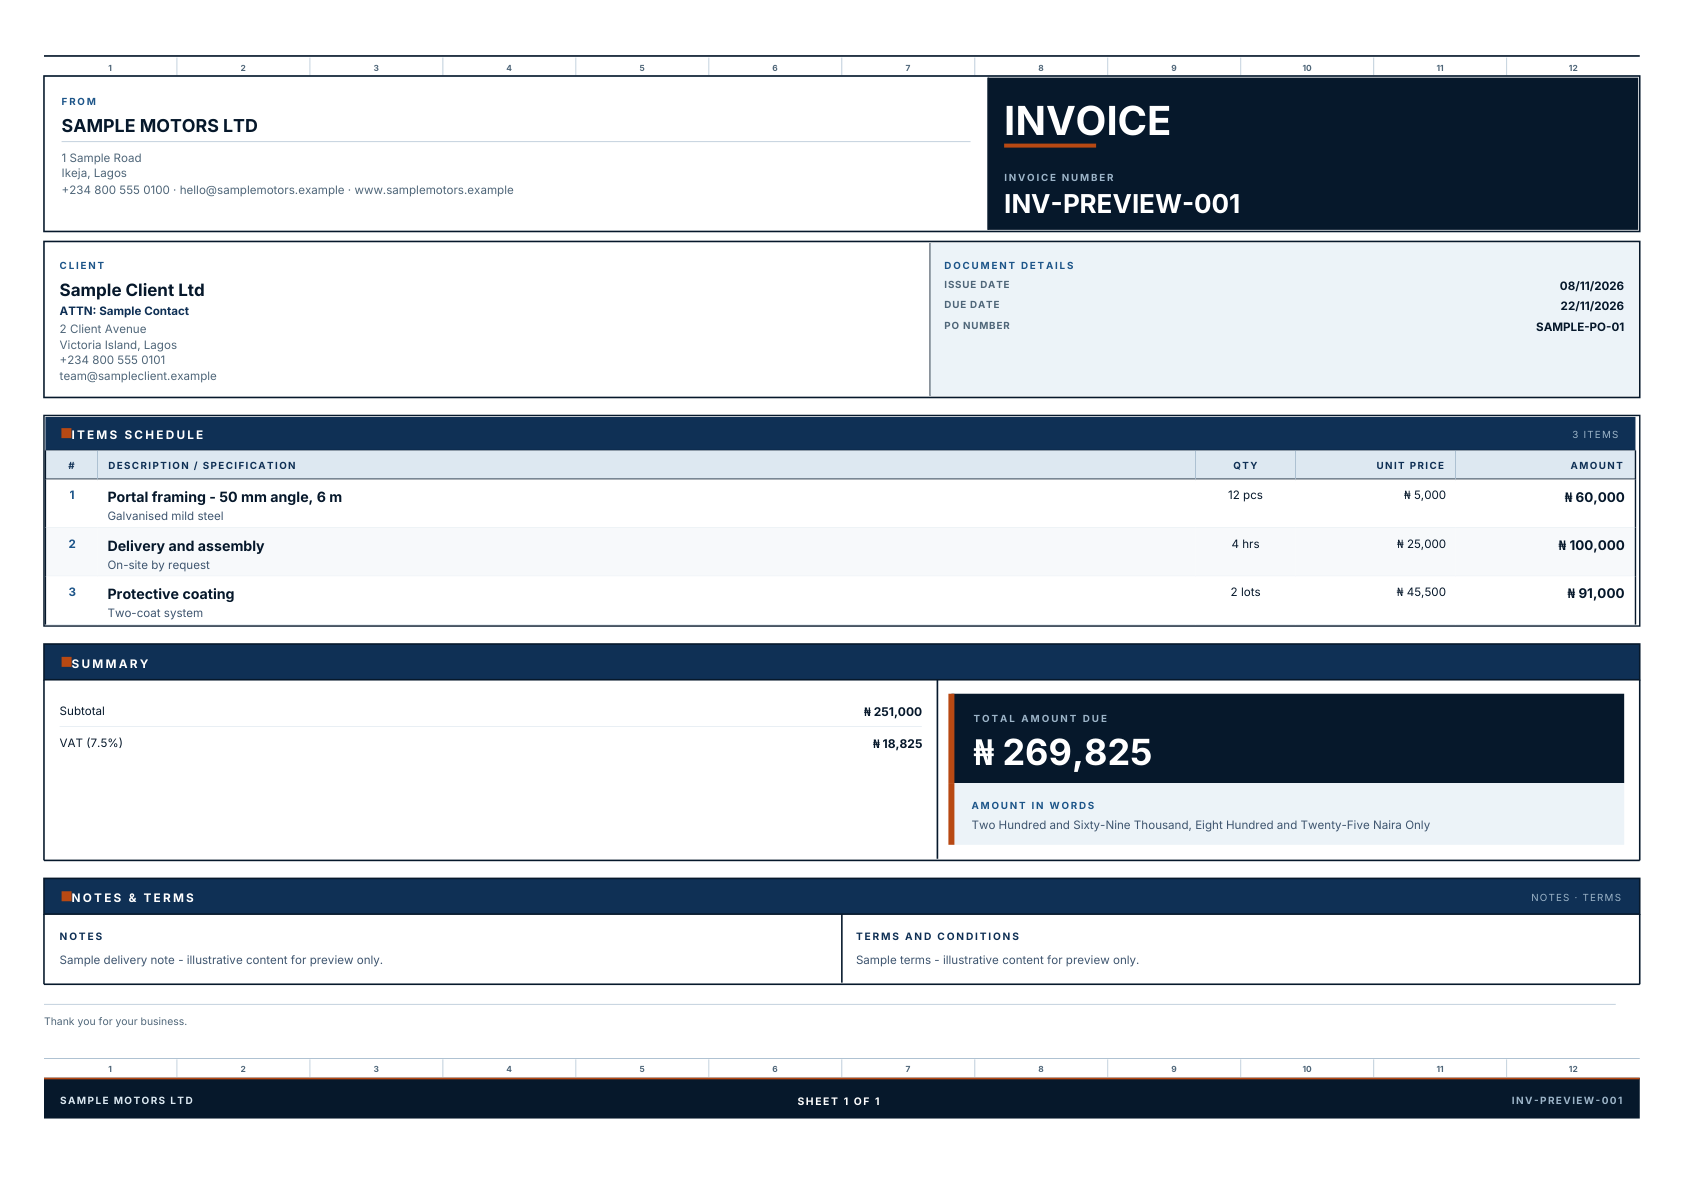
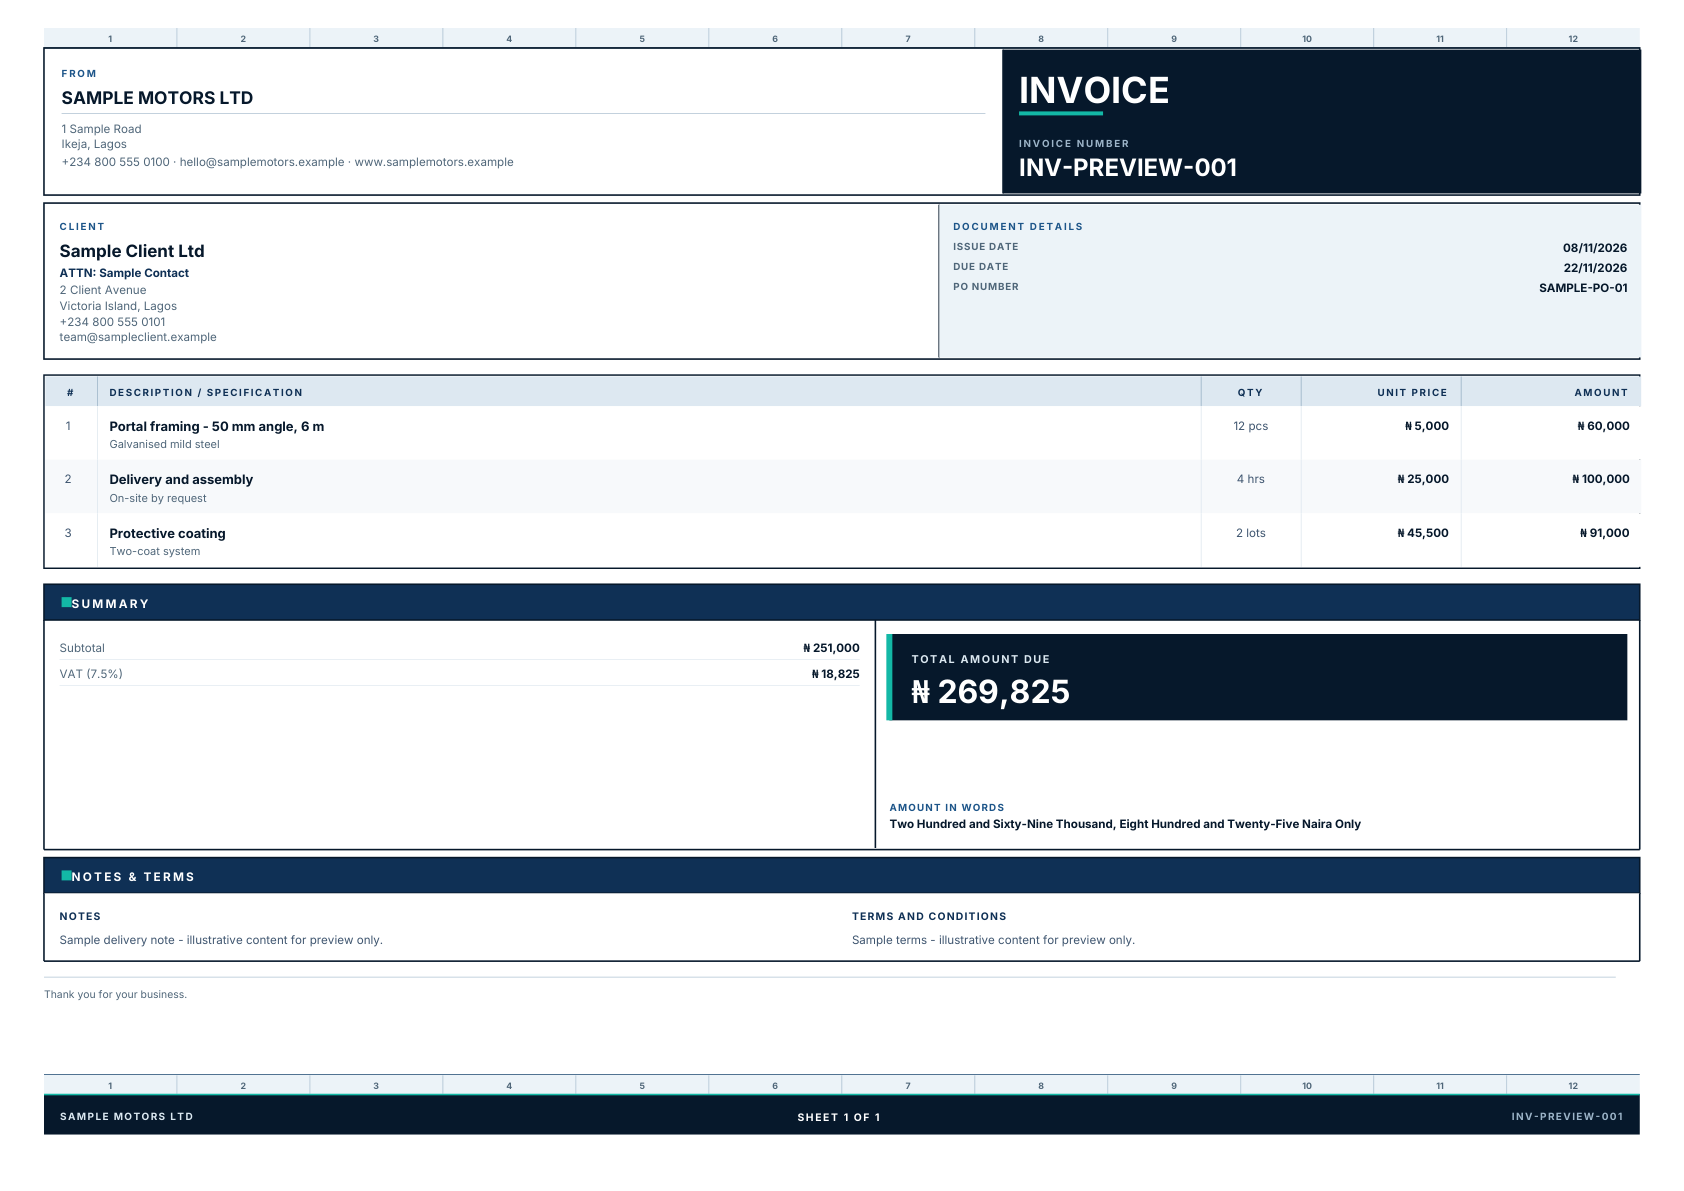
📝 docs(document-view): commercial miniature audit implementation log

Changed region(s): [[0.0, 0.0311, 0.9881, 0.8699], [0.0309, 0.9009, 0.9881, 0.9631]]

diff --git a/docs/reports/Commercial_Template_Miniature_Source_And_Rendering_Audit.md b/docs/reports/Commercial_Template_Miniature_Source_And_Rendering_Audit.md
@@ -286,10 +286,56 @@ Zero application source files, HTML templates, CSS files, image assets, `package
 
 ---
 
-## 12. Implementation handoff (do not implement without approval)
+## 12. Implementation report (approved implementation, 2026-11-08)
 
-1. Create the generation script (Bun/Node) from the `scratch/verify-heritage-visual.ts` sample-model pattern + `scratch/render-heritage-pixmaps.ts` raster loop, parameterised over the 8 IDs.
-2. Commit WebP (PNG fallback) previews; wire `CommercialTemplatePicker` `customPreview` slots to `<img>` with `object-fit: contain`.
-3. Keep `CommercialTemplateMiniature.tsx` as fallback; add CI golden-diff check per §9.
-4. Await explicit approval. This audit intentionally stops here.
+### Authoritative inventory (resolved count: 8)
+Verified against `INVOICE_PDF_TEMPLATE_IDS` in `src/domain/invoice/types.ts` (9 entries; `industry-forme` is an alias normalizing to `industry`), `resolveCommercialPdfRoute` in `src/components/pdf/index.ts` (8 `*-forme` routes), and `CommercialTemplatePicker.tsx` (8 options). Quotation reuses the same IDs via `normalizeInvoicePdfTemplateId` in `src/domain/quotation/pdfDownloadHandler.ts`. **Heritage House is genuinely selectable and backed by `HeritageHouseFormeDocument.tsx` — included.** Exact IDs: `industrial`, `industry`, `minimal`, `landscape`, `evergreen`, `architectural`, `executive`, `heritage`.
 
+### Renderer → image mapping
+| ID | Forme renderer | Asset (committed PNG) |
+|---|---|---|
+| industrial | `src/components/pdf/forme/IndustrialFormeDocument.tsx` | `src/assets/template-previews/industrial.png` |
+| industry | `src/components/pdf/forme/IndustryFormeDocument.tsx` | `src/assets/template-previews/industry.png` |
+| minimal | `src/components/pdf/forme/MinimalFormeDocument.tsx` | `src/assets/template-previews/minimal.png` |
+| landscape | `src/components/pdf/forme/LandscapeFormeDocument.tsx` | `src/assets/template-previews/landscape.png` |
+| evergreen | `src/components/pdf/forme/EvergreenFormeDocument.tsx` | `src/assets/template-previews/evergreen.png` |
+| architectural | `src/components/pdf/forme/ArchitecturalFormeDocument.tsx` | `src/assets/template-previews/architectural.png` |
+| executive | `src/components/pdf/forme/ExecutiveFormeDocument.tsx` | `src/assets/template-previews/executive.png` |
+| heritage | `src/components/pdf/forme/HeritageHouseFormeDocument.tsx` | `src/assets/template-previews/heritage.png` |
+
+Formats: PNG (106–157 KB, 1191×1684 portrait / 1684×1191 landscape at scale 2 ≈ 144 dpi). PNG chosen over WebP — guaranteed by `pix.asPNG()`, no new dependency. First page only (all 8 PDFs render single-page with the fixture).
+
+### Fixture
+`scripts/generate-commercial-template-previews.ts` → `buildSampleInvoice()` — fictional `Sample Motors Ltd` → `Sample Client Ltd`, `INV-PREVIEW-001`, 3 items (12×₦5,000 + 4×₦25,000 + 2×₦45,500 = ₦251,000; VAT 7.5% ₦18,825; total ₦269,825 + amount-in-words), notes/terms labelled "illustrative content for preview only", footer `Sample Motors Ltd`. No TIN, bank details, signatures, logos, or real customer data. Layout hint per template (`portrait` except `landscape`). Fixture is generation-time only; never enters production document data.
+
+### Generation
+`bun scripts/generate-commercial-template-previews.ts` → for each ID: `adaptCommercialDocumentData(model)` → `renderPdfcnToBytes(React.createElement(Component, { data }))` → `mupdf.Document.openDocument(bytes)` → `page.toPixmap(scale 2, DeviceRGB)` → `pix.asPNG()` → `src/assets/template-previews/{id}.png`. Fonts pre-registered (`Inter`, `Archivo Black`, `PT Serif`, `Noto Sans`, `Caveat`). Script is build-time only — the picker never generates PDFs.
+
+### Integration
+`CommercialTemplatePicker.tsx` `customPreview` slots now render `<img class="h-[80px] w-full rounded-[12px] bg-white object-contain">` from the committed PNGs (same 80 px footprint, same carousel/selection/persistence; `A4 Landscape` badge retained for `landscape`). `CommercialTemplateMiniature.tsx` removed after all 8 assets verified (typecheck + 60 focused tests + per-ID file/size checks + visual read of industrial/landscape PNGs). `TemplateMiniPreview` and Waybill/CSR paths untouched. No picker-time PDF generation or rasterisation.
+
+### Regeneration
+After any Forme design change affecting a template, run `bun scripts/generate-commercial-template-previews.ts` and commit the refreshed PNGs. Verify each PNG by reading it (header/parties/table/totals/footer match the renderer) and by re-running typecheck + focused picker/renderer tests. CI golden-diff check deferred (R8-§9) — re-raster + visual spot-check is the current gate.
+
+### Known limitations
+- Previews are page-1 composites at 80 px (~10% of A4 width) — fine text is decorative; composition/identity is the acceptance bar.
+- `landscape` PNG was rendered from the pre-existing Landscape renderer state; an in-flight Landscape refactor (concurrent `src/components/pdf/forme/landscape/`, failing typecheck unrelated to previews) requires regeneration once that refactor lands. No other template affected.
+
+---
+
+## 13. Visual QA (2026-11-08, all eight assets individually inspected)
+
+Method: each committed PNG at `src/assets/template-previews/` read and compared against its production Forme renderer (Forme bytes via `scripts/generate-commercial-template-previews.ts` fixture). Headers, identity, numbering, parties, table columns/amounts, subtotal/VAT/total + amount-in-words, notes/terms, footer, orientation, typography, clipping assessed per asset.
+
+| ID | Verdict | Evidence |
+|---|---|---|
+| industrial (`src/components/pdf/forme/IndustrialFormeDocument.tsx`) | **PASS** | Graphite masthead + PO chip, Bill To panel, graphite table + cost build-up + orange-sheet total bar, words panel, Notes/Terms, 3-part footer. Faithful. |
+| industry (`IndustryFormeDocument.tsx`) | **PASS** | Sage title + meta, From/To cards, sage table header, right totals panel + words box, Notes/Terms, hairline footer. Faithful. |
+| minimal (`MinimalFormeDocument.tsx`) | **PASS** | Spare top block, ruled parties, PO strip, hairline table, boxed totals + italic words, Notes/Terms, light footer. Faithful restraint. |
+| landscape (`LandscapeFormeDocument.tsx` + `forme/landscape/`) | **PASS (regenerated)** | New render matches the *refactored* renderer: ruler strips, navy INVOICE identity cell, client + details split, summary/notes bands, navy footer. Dimensions 1684×1191, `SHEET 1 OF 1`. Old amber styling gone — regeneration kept. Regenerated 2026-11-08 after stability check (see below). |
+| evergreen (`EvergreenFormeDocument.tsx`) | **PASS** | Green rule + INVOICE, pale From/Bill To cards, PO chip, green table header, pale totals panel + green total, Notes/Terms cards, pale footer. Faithful. |
+| architectural (`ArchitecturalFormeDocument.tsx`) | **PASS** | Charcoal company block + meta panel, divided parties, charcoal zebra table, ledger + charcoal total box, beige Notes/Terms, signatory + doc-control stamp, hairline footer. Faithful. |
+| executive (`ExecutiveFormeDocument.tsx`) | **PASS** | Centred serif masthead + PO strip, doc-number/issue/due/PO bar, parties, forest table, full-width forest total bar, ledger + settlement box, beige Notes/Terms, executive signatories. Faithful. |
+| heritage (`HeritageHouseFormeDocument.tsx`) | **PASS** | S seal + burgundy company, BOURXE INVOICE, verified stamp, Bill To / Particulars, burgundy table header, right totals, Notes/Terms, dual signatories, Verified control stamp. Faithful. |
+
+Regenerated assets: only `src/assets/template-previews/landscape.png` (all other seven byte-identical on re-run → `git status --short` shows `M` for landscape only). Landscape refactor stability: `src/components/pdf/forme/landscape/` (4 split files) present; focused Landscape tests 11/11 pass; `bun run typecheck` shows **no Landscape errors** (earlier split errors resolved). **Typecheck is BLOCKED by unrelated concurrent `src/domain/pdf/resolver/commercial/preparePurchaseOrderDocument.ts` errors (TS2322/TS2353, from concurrent `resolver/types.ts` + `types.ts` drift) — reported, not repaired here.** Picker mapping re-verified (8 IDs → 8 PNGs, `object-contain`, no generation at runtime). Waybill/CSR paths untouched. Focused suite: **71 pass, 0 fail** across 10 PDF/template test files. `git diff --check` passes; `bun run build` never run. Remaining work before full sign-off: (1) typecheck clean once concurrent PO-resolver drift is fixed by its owners; (2) regenerate previews on any future Forme design change per §12; (3) optional CI golden-diff (deferred R8).
